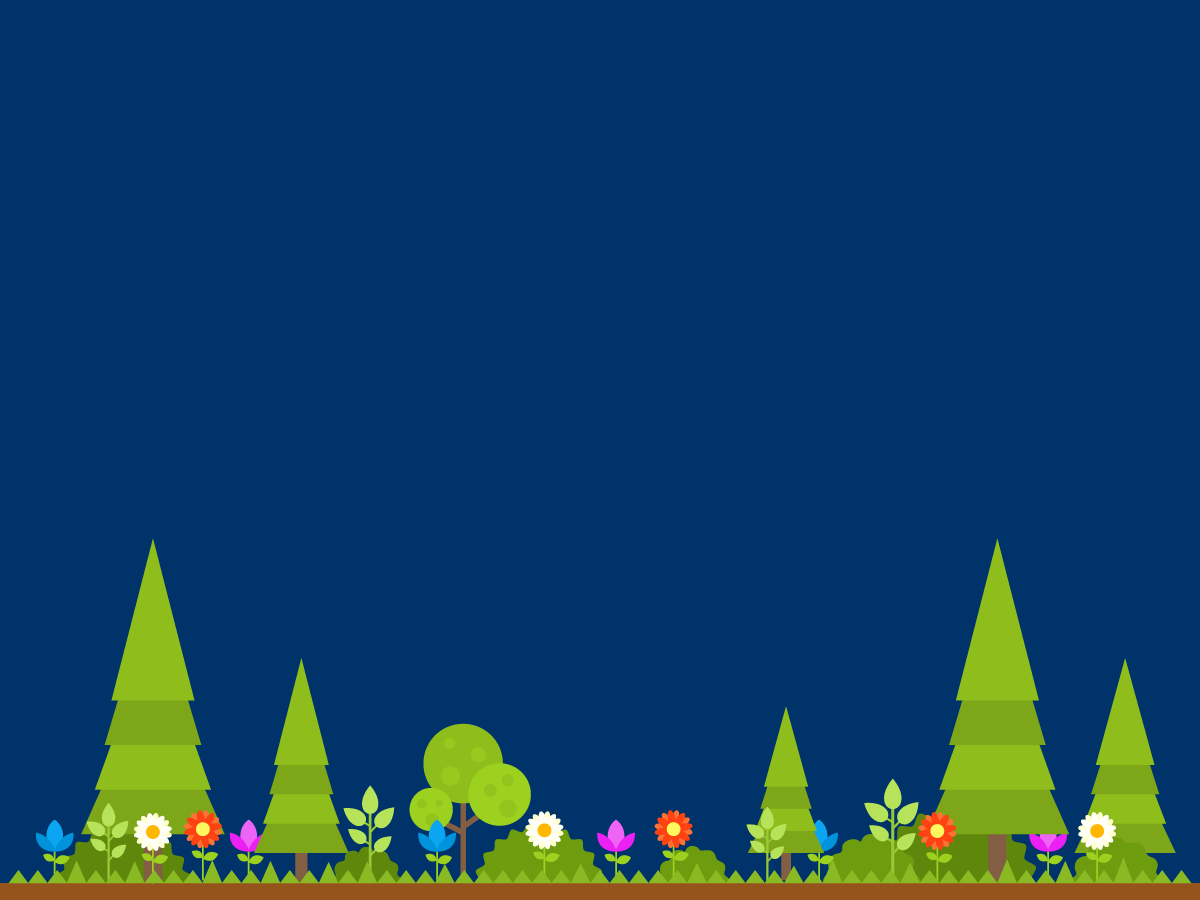
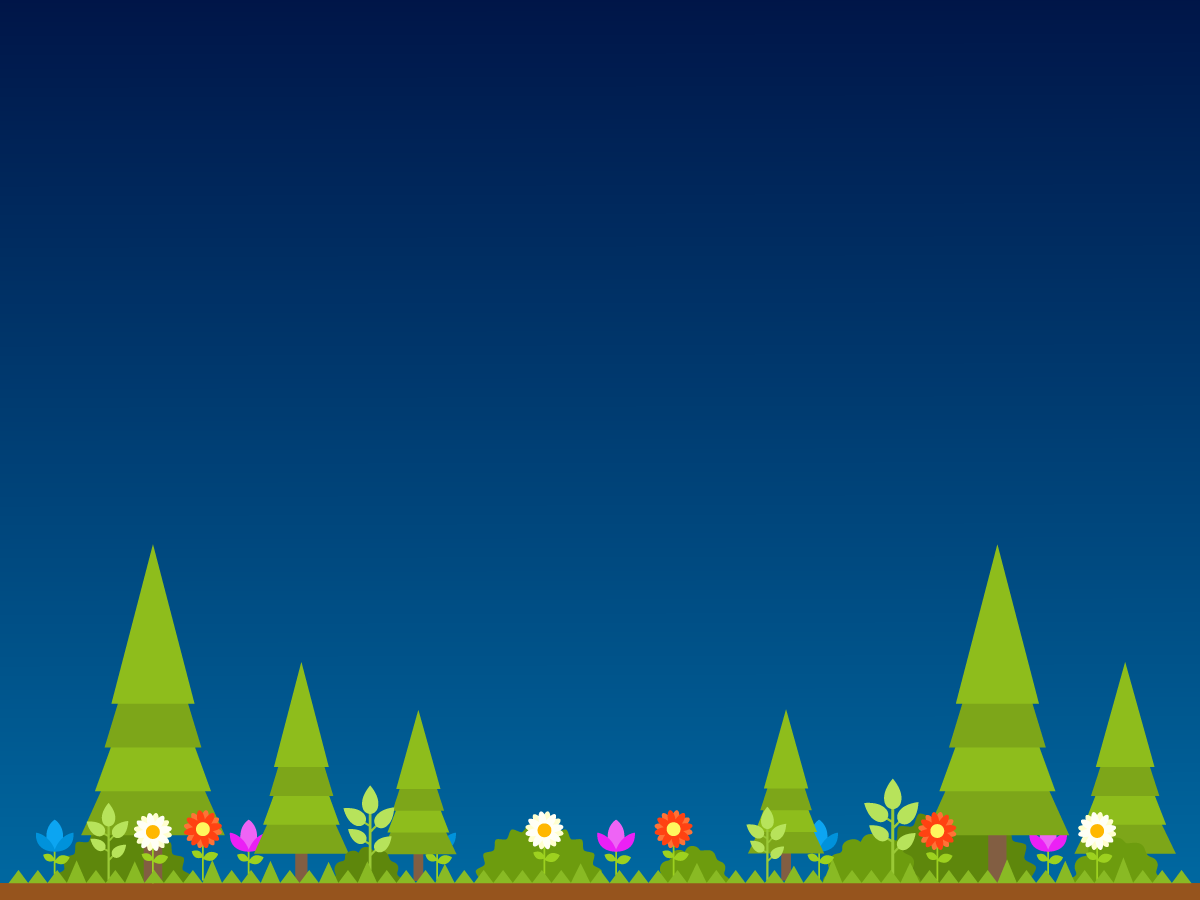
Cambios

diff --git a/index.html b/index.html
@@ -15,7 +15,7 @@
 
   <body>
     <div id="main-toolbar" class="toolbar">
-      <button class="toolbutton" id="activity-button" title="Enciendete"></button>
+      <button class="toolbutton" id="activity-button" disabled title="Enciendete"></button>
       <!-- Buttons with class="pull-right" will be right aligned -->
       <button class="toolbutton pull-right" id="stop-button" title="Stop"></button>
     </div>
@@ -26,10 +26,10 @@
       <!-- Init Elements -->
         <div id="menu" class="grid">
             <div class="col-1-2" id="menu-1">
-                <button class="menu-button" value="1">Nivel Uno</button>
+                <button class="menu-button" value="1">Memoriza secuencia</button>
             </div>
             <div class="col-1-2" id="menu-2">
-                <button class="menu-button" value="2">Nivel Dos</button>
+                <button class="menu-button" value="2">Completa secuencia</button>
             </div>
         </div>
         <div id="level-1" class="hidden">
@@ -42,37 +42,40 @@
                 <button class="reload-button">Volver a menu</button>
                 <button class="play-again">Jugar de nuevo</button>
             </div>
-            <div class="element" style="top: 25%; left: 35%;">
+            <div class="element" style="top: 25%; left: 30%;">
                 <button class="button-number" value="1">1</button>
             </div>
-            <div class="element" style="top: 20%; left: 50%;">
+            <div class="element" style="top: 20%; left: 45%;">
                 <button class="button-number" value="2">2</button>
             </div>
-            <div class="element" style="top: 25%; left: 65%;">
+            <div class="element" style="top: 25%; left: 60%;">
                 <button class="button-number" value="3">3</button>
             </div>
-            <div class="element" style="top: 40%; left: 30%;">
+            <div class="element" style="top: 40%; left: 25%;">
                 <button class="button-number" value="4">4</button>
             </div>
-            <div class="element" style="top: 45%; left: 50%;">
+            <div class="element" style="top: 40%; left: 45%;">
                 <button class="button-number" value="5">5</button>
             </div>
-            <div class="element" style="top: 40%; left: 70%;">
+            <div class="element" style="top: 40%; left: 65%;">
                 <button class="button-number" value="6">6</button>
             </div>
-            <div class="element" style="top: 55%; left: 35%;">
+            <div class="element" style="top: 55%; left: 30%;">
                 <button class="button-number" value="7">7</button>
             </div>
-            <div class="element" style="top: 55%; left: 65%;">
+            <div class="element" style="top: 55%; left: 60%;">
                 <button class="button-number" value="8">8</button>
             </div>
-            <div class="element" style="top: 65%; left: 45%;">
+            <div class="element" style="top: 65%; left: 40%;">
                 <button class="button-number" value="9">9</button>
             </div>
-            <div class="element" style="top: 65%; left: 55%;">
+            <div class="element" style="top: 65%; left: 50%;">
                 <button class="button-number" value="0">0</button>
             </div>
-            <button class="reload reload-button" title="Volver">Volver a menu</button>
+            <div class="text-area">
+                <button class="start" title="Empezar"></button>
+                <button class="reload reload-button" title="Volver">Volver a menu</button>
+            </div>
         </div>
         <div id="level-2" class="hidden">
             <div class="msg">
@@ -84,32 +87,32 @@
                 <button class="reload-button">Volver a menu</button>
                 <button class="serie-again">Jugar de nuevo</button>
             </div>
-            <div class="element" style="top: 40%; left: 20%;">
-                <button class="button-number" value="0"></button>
+            <div class="element" style="top: 40%; left: 15%;">
+                <button class="button-serie" value="0"></button>
                 <input class="hidden" type="text">
             </div>
-            <div class="element" style="top: 30%; left: 30%;">
-                <button class="button-number" value="1"></button>
+            <div class="element" style="top: 30%; left: 25%;">
+                <button class="button-serie" value="1"></button>
                 <input class="hidden" type="text">
             </div>
-            <div class="element" style="top: 20%; left: 40%;">
-                <button class="button-number" value="2"></button>
+            <div class="element" style="top: 20%; left: 35%;">
+                <button class="button-serie" value="2"></button>
                 <input class="hidden" type="text">
             </div>
             <div class="element" style="top: 20%; left: 55%;">
-                <button class="button-number" value="3"></button>
+                <button class="button-serie" value="3"></button>
                 <input class="hidden" type="text">
             </div>
             <div class="element" style="top: 30%; left: 65%;">
-                <button class="button-number" value="4"></button>
+                <button class="button-serie" value="4"></button>
                 <input class="hidden" type="text">
             </div>
             <div class="element" style="top: 40%; left: 75%;">
-                <button class="button-number" value="5"></button>
+                <button class="button-serie" value="5"></button>
                 <input class="hidden" type="text">
             </div>
-            <div id="text">
-                <p><button id="check">Aceptar</button></p>
+            <div class="text">
+                <p><button id="check"></button></p>
                 ¿CUÁL ES EL NÚMERO PARA COMPLETAR LA SECUENCIA
                 <div id="serie-text"></div>
             </div>

diff --git a/css/activity.css b/css/activity.css
@@ -4,7 +4,6 @@
 
 #canvas {
   background-image: url(../img/back.png);
-  background-size: contain;
 }
 
 .element {
@@ -88,9 +87,25 @@
   font-weight: bold;
   border: none !important;
   outline: 0 !important;
+  overflow: visible;
 }
 
-.button-number:hover, .button-number:active {
+.button-serie {
+  display: block;
+  width: 100px;
+  height: 120px;
+  background-color: transparent !important;
+  background: url('../img/luciernaga.png') no-repeat center center;
+  font-size: 30px;
+  color: #000;
+  font-weight: bold;
+  border: none !important;
+  outline: 0 !important;
+  overflow: visible;
+  padding-top: 20px;
+}
+
+.button-number:hover, .button-number:active, .button-serie:hover, .button-serie:active {
   border: none !important;
 }
 
@@ -127,10 +142,10 @@
   width: 50px;
   position: absolute;
   top: 50px;
-  left: 15px;
+  left: 25px;
 }
 
-#text {
+.text {
   position: absolute;
   bottom: 100px;
   width: 100%;
@@ -140,6 +155,31 @@
   text-align: center;
 }
 
+.text-area {
+  position: absolute;
+  bottom: 0;
+  width: 100%;
+  color: #fff;
+  font-size: 25px;
+  font-weight: bold;
+}
+
 .toolbar #stop-button {
   background-image: url('../img/activity-stop.png') !important;
+}
+
+.start {
+  color: #000;
+  border-radius: 50px;
+  padding: 20px;
+  margin-left: 10px;
+  margin-bottom: 5px;
+  background: #808080 url('../img/play.png') no-repeat center center;
+
+}
+
+#check {
+  border-radius: 50px;
+  padding: 20px;
+  background: #808080 url('../img/check.png') no-repeat center center;
 }

diff --git a/js/activity.js b/js/activity.js
@@ -191,8 +191,11 @@ define(function (require) {
 
             if (level === '1') {
                 var game = new MemoryGame();
-                var numbers = game.randomNumber();
-                activate(numbers);
+                var numbers = [];
+                $('.start').on('click', function(e) {
+                    numbers = game.randomNumber();
+                    activate(numbers);
+                });
                 $('.button-number').on('click', function(e) {
                     e.preventDefault();
                     if(game.win()) {
